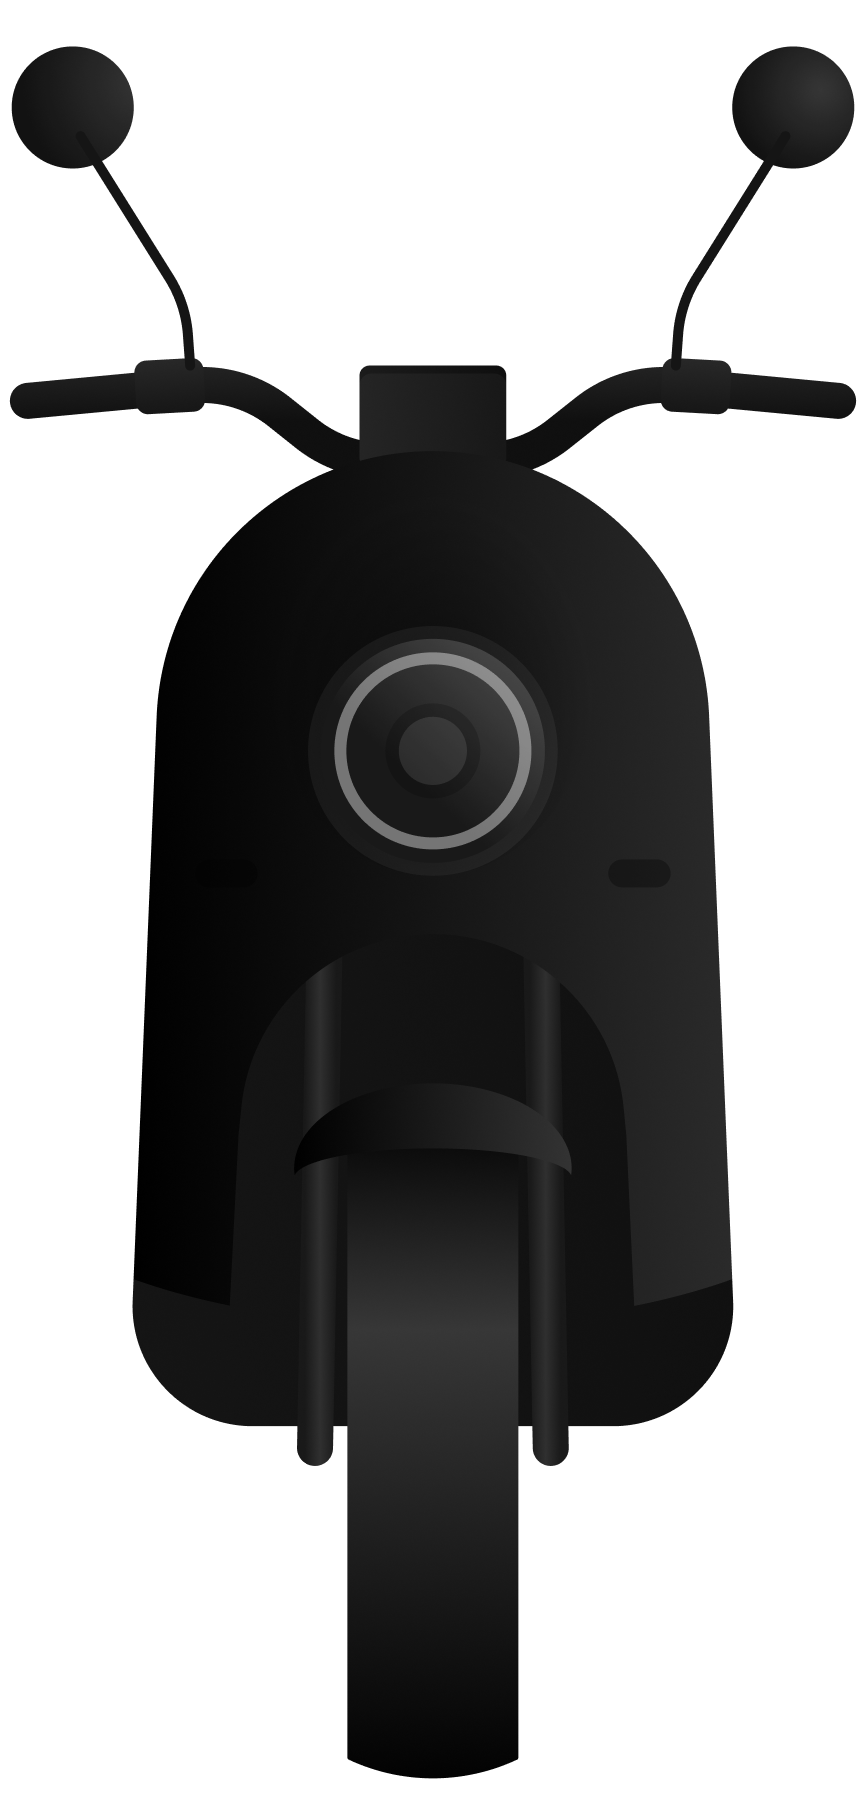
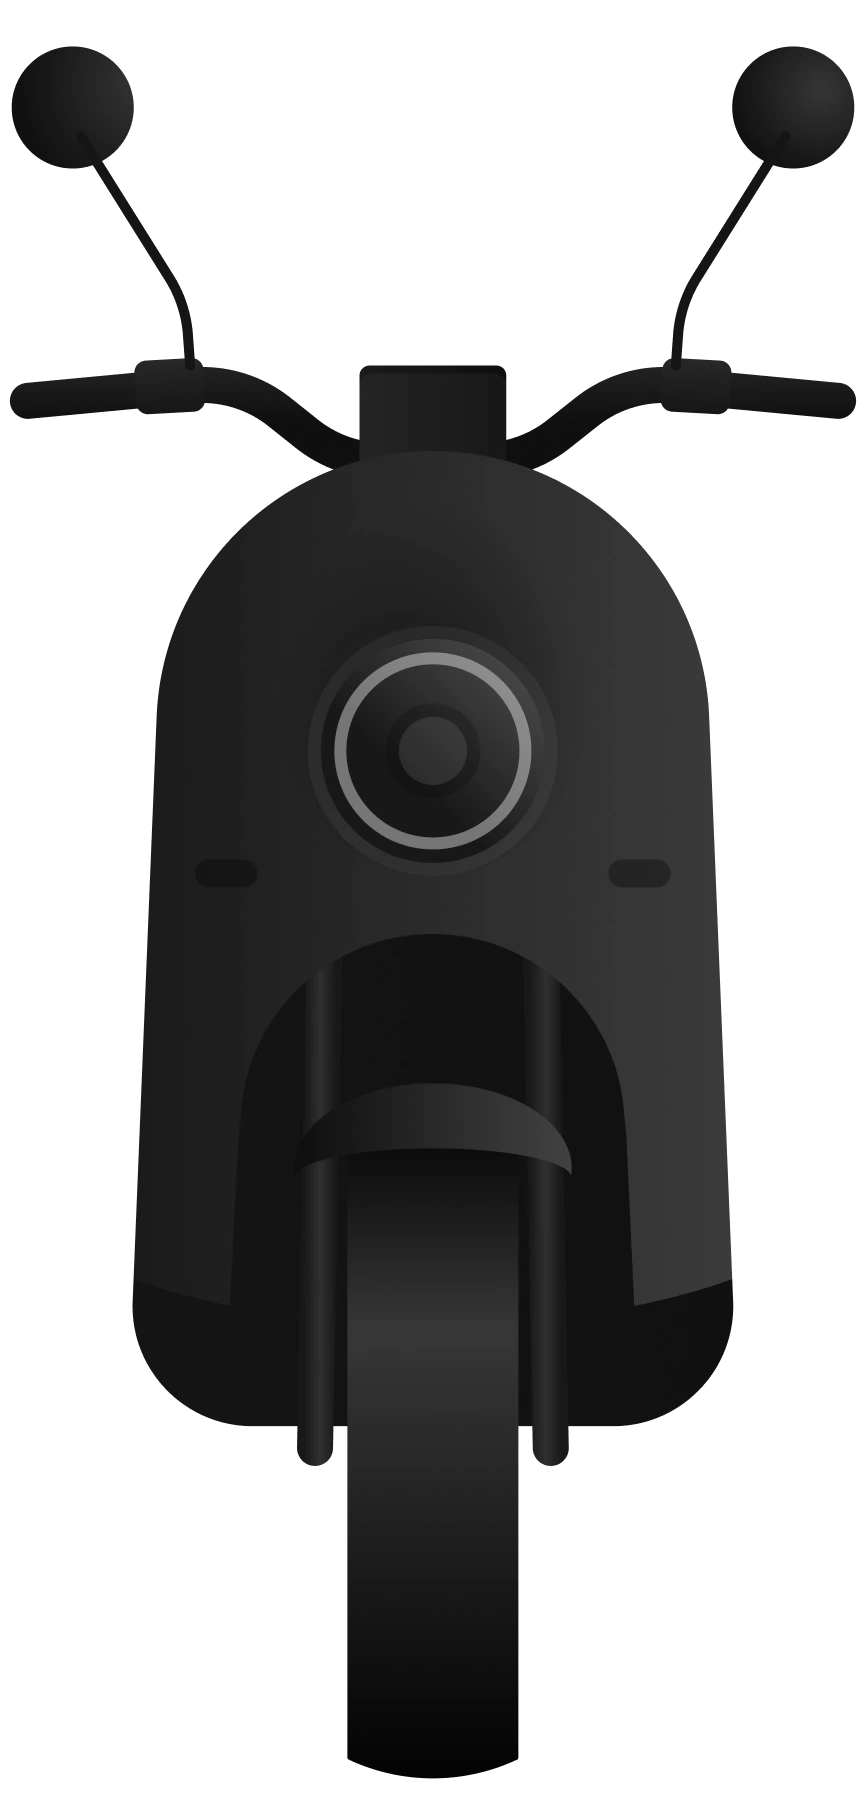
Polish and love (#69)
* Adding refined scooter images

* Clarifying strings

* images for idioteque

* Adding another colorway

* Implement new colors

* Handling incomplete adresses

Changed region(s): [[0.1559, 0.28, 0.343, 0.7467]]

diff --git a/lib/stats/scooter_section.dart b/lib/stats/scooter_section.dart
@@ -180,10 +180,11 @@ class SavedScooterCard extends StatelessWidget {
               height: 160,
             ),
             onTap: () async {
-              int? newColor =
-                  await showColorDialog(savedScooter.color, context);
+              int? newColor = await showColorDialog(
+                  savedScooter.color, savedScooter.name, context);
               if (newColor != null) {
                 savedScooter.color = newColor;
+                rebuild();
               }
             },
           ),
@@ -277,7 +278,8 @@ class SavedScooterCard extends StatelessWidget {
                 FlutterI18n.translate(context, "stats_last_seen_near"),
               ),
               subtitle: FutureBuilder<String?>(
-                future: GeoHelper.getAddress(savedScooter.lastLocation!),
+                future:
+                    GeoHelper.getAddress(savedScooter.lastLocation!, context),
                 builder: (context, snapshot) {
                   if (snapshot.hasData) {
                     return Text(snapshot.data!);
@@ -460,7 +462,8 @@ class SavedScooterCard extends StatelessWidget {
     );
   }
 
-  Future<int?> showColorDialog(int initialValue, BuildContext context) {
+  Future<int?> showColorDialog(
+      int initialValue, String scooterName, BuildContext context) {
     int selectedValue = initialValue;
 
     return showDialog<int>(
@@ -567,6 +570,43 @@ class SavedScooterCard extends StatelessWidget {
                     },
                     context: context,
                   ),
+                  _colorRadioTile(
+                    colorName: "eclipse",
+                    colorValue: 7,
+                    color: Colors.grey.shade800,
+                    selectedValue: selectedValue,
+                    onChanged: (value) {
+                      setState(() {
+                        selectedValue = value!;
+                      });
+                    },
+                    context: context,
+                  ),
+                  _colorRadioTile(
+                    colorName: "idioteque",
+                    colorValue: 8,
+                    color: Colors.teal.shade200,
+                    selectedValue: selectedValue,
+                    onChanged: (value) {
+                      setState(() {
+                        selectedValue = value!;
+                      });
+                    },
+                    context: context,
+                  ),
+                  if (scooterName == "Hover")
+                    _colorRadioTile(
+                      colorName: "hover",
+                      colorValue: 9,
+                      color: Colors.lightBlue,
+                      selectedValue: selectedValue,
+                      onChanged: (value) {
+                        setState(() {
+                          selectedValue = value!;
+                        });
+                      },
+                      context: context,
+                    )
                 ],
               );
             });

diff --git a/lib/geo_helper.dart b/lib/geo_helper.dart
@@ -1,10 +1,12 @@
 import 'dart:convert';
 
+import 'package:flutter/material.dart';
 import 'package:latlong2/latlong.dart';
 import 'package:http/http.dart';
 
 class GeoHelper {
-  static Future<String?> getAddress(LatLng? position) async {
+  static Future<String?> getAddress(
+      LatLng? position, BuildContext context) async {
     if (position == null) {
       return null;
     }
@@ -14,6 +16,22 @@ class GeoHelper {
       return null;
     }
     Map<String, dynamic> json = jsonDecode(response.body);
-    return "${json['address']['road']} ${json['address']['house_number'] ?? ""}, ${json['address']['city']}";
+    String? street = json['address']['road'];
+    String? streetNumber = json['address']['house_number'];
+    String? city = json['address']['city'];
+
+    if (street != null && streetNumber != null && city != null) {
+      return '$street $streetNumber, $city';
+    } else if (street != null && city != null) {
+      return '$street, $city';
+    } else if (street != null && streetNumber != null) {
+      return '$street $streetNumber';
+    } else if (street != null) {
+      return street;
+    } else if (city != null) {
+      return city;
+    } else {
+      return null;
+    }
   }
 }
